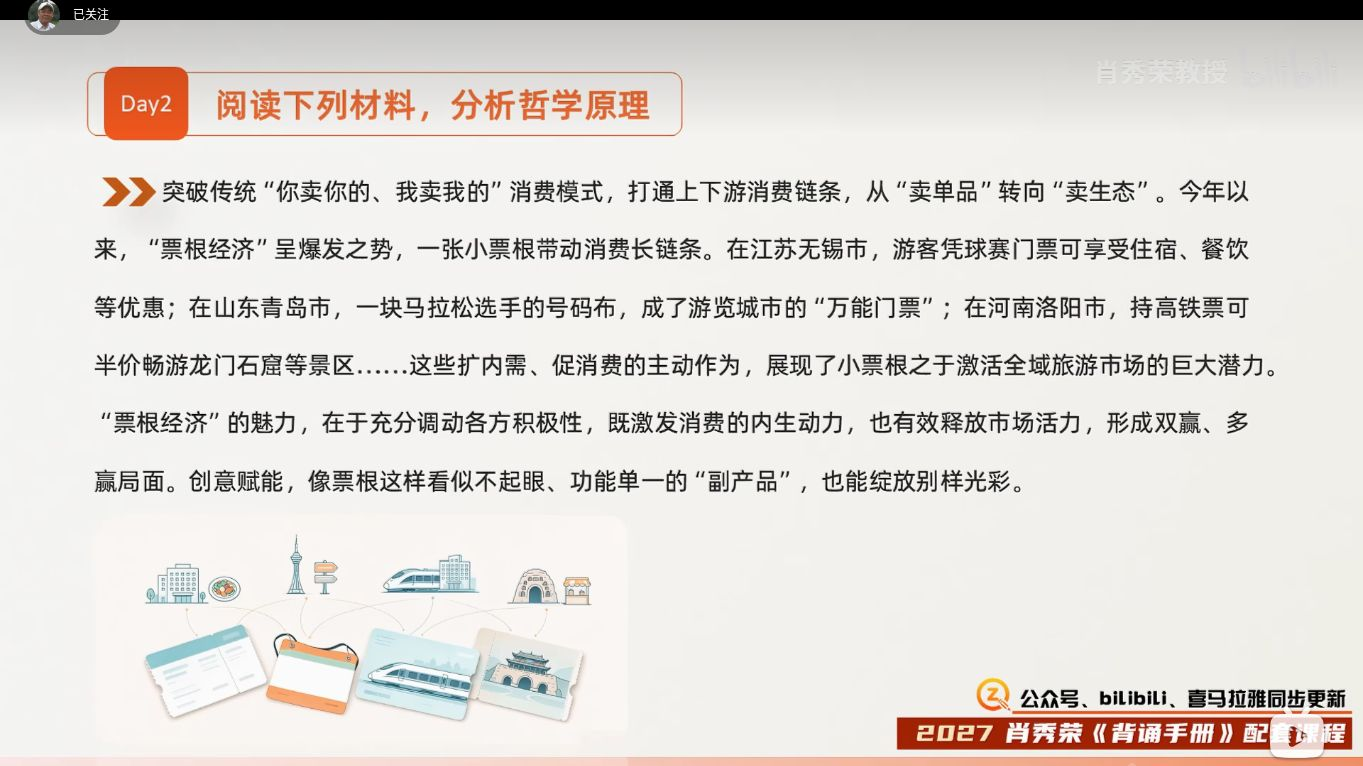
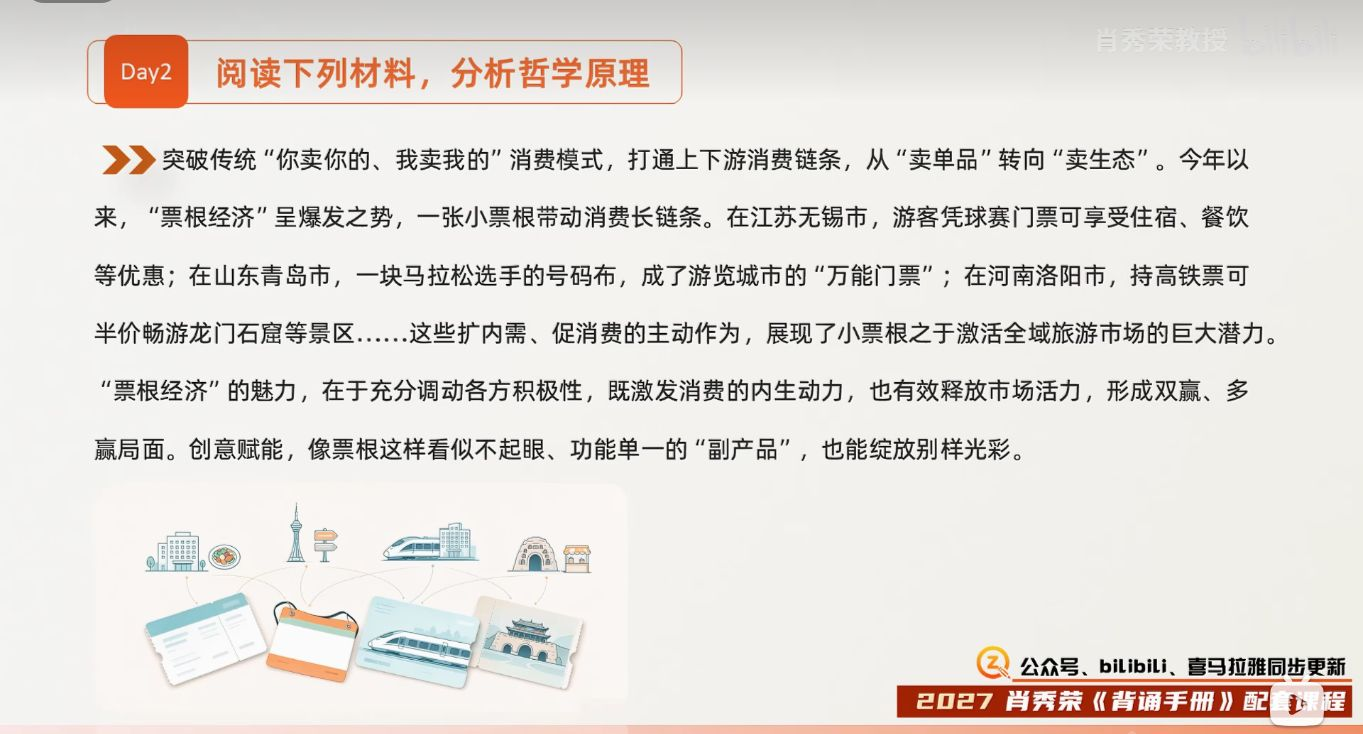
analysis: 补齐Day07—Day09并完成9期18张原图归档（Codex）
Implemented:
- 归档已核对的片尾材料与答案，更新仅含原图的bank页面和来源进度
- 保留explain空目录，记录真实截图尺寸及接力流程

Why:
- 支持连续约30天的带背分析题积累并避免漏期和误认原尺寸

Verified:
- 本批图片已逐页查看，尺寸、SHA256和Markdown图片链接通过本地检查
- 上传blob逐一核对Git SHA，基于最新main快进发布

Generated with Codex

diff --git a/tools/manage_analysis_bank.py b/tools/manage_analysis_bank.py
@@ -42,6 +42,8 @@ def main():
         lines.append(f"- [Day{number:02d} · {day['topic']}](bank/day{number:02d}.md) · [原视频]({day['url']})")
     pending = [str(day['day']) for day in source['videos'] if day['status'] != 'archived']
     lines += ['', f"已归档 {len(completed)}/{len(source['videos'])} 期；" + ('待补 Day' + '、'.join(pending) + '。' if pending else '当前清单全部完成。'), '', '## 目录约定', '', '`bank/dayNN.md` 只展示两张原图：题干材料、参考答案。图片保存在 `bank/images/`；日期与 Day 编号分别记录，停更一天不会错位。`explain/` 暂只保留空目录，理解与解析的写法尚未确定，不自动生成内容。', '', '## 图片口径', '', '选择播放器可用的最高画质并关闭弹幕，暂停在完整静止页后截图；只裁播放器边框、黑边或空白边，不裁正文，不去水印，不重绘或放大冒充原图。当前播放源为 1920×1080，但首批交付是浏览器窗口截图，宽度 1363 像素，不能称为 1080P 原尺寸抽帧。后续若取得更高清原尺寸帧，应核对内容后替换同名图片并更新记录。', '', '## 接力与更新', '', '1. 先阅读仓库 `AGENTS.md` 和本目录 `sources.json`，读取最新 main。', '2. 在官方合集（ID 9292051）检查是否有新一期，按实际 Day 编号及发布时间补入清单；先补旧缺口，禁止凭发布日期推算 Day 编号。', '3. 检查片尾全部换页，保存完整材料页与答案页；如果未来一天出现多页，保留全部页并相应调整页面，不能漏页或强行拼成两张。无分析题时如实记录，不拿讲课截图代替。', '4. 优先原尺寸抽帧；只能浏览器截图时记录真实分辨率。暂停后确认页眉 Day 和内容，避免片尾自动跳到下一期。截图时间记在 `timestamps`。', '5. 运行 `python3 tools/manage_analysis_bank.py` 检查尺寸、文件哈希和图片链接。按仓库署名规则分批发布到 main，并核对远端哈希；只在新增归档、补缺或执行失败时通知用户。', '6. 不修改字幕原件、历史讲稿或未成型的 `explain/`。自动检查配置另记录在 `sources.json` 的 `monitoring` 字段；任务是否已启用以自动化工具返回为准。', '', '[来源、时间点、图片校验与进度](sources.json)', '']
+    if source.get('monitoring', {}).get('status') == 'blocked_by_task_limit':
+        lines += ['## 自动检查状态', '', '尚未启用。创建任务时系统返回 `too_many_active_automations`，现有任务数已达 5/5。拟每天北京时间 19:10—23:10 每小时检查一次，至 2026-11-19；需用户指定腾出哪个旧任务的名额后再创建，不能视为已经在后台执行。', '']
     (BASE / 'README.md').write_text('\n'.join(lines))
     for page in BASE.rglob('*.md'):
         for target in re.findall(r'!?\[[^\]]*\]\(([^)]+)\)', page.read_text()):

diff --git a/src/analysis/README.md b/src/analysis/README.md
@@ -10,8 +10,11 @@
 - [Day04 · 市场需求与传统产业转型](bank/day04.md) · [原视频](https://www.bilibili.com/video/BV1vnWA6fEbb/)
 - [Day05 · 森林价值与因地制宜绿化](bank/day05.md) · [原视频](https://www.bilibili.com/video/BV1EWp26XEmb/)
 - [Day06 · 以藕塑骨与科技创新](bank/day06.md) · [原视频](https://www.bilibili.com/video/BV1rDJy61EM5/)
+- [Day07 · 科幻与社会现实](bank/day07.md) · [原视频](https://www.bilibili.com/video/BV1EhJX6aETJ/)
+- [Day08 · 航天科技服务生产生活](bank/day08.md) · [原视频](https://www.bilibili.com/video/BV1wLJq64EA2/)
+- [Day09 · 厚的读薄、薄的读厚](bank/day09.md) · [原视频](https://www.bilibili.com/video/BV1yunn6JExr/)
 
-已归档 6/9 期；待补 Day7、8、9。
+已归档 9/9 期；当前清单全部完成。
 
 ## 目录约定
 
@@ -31,3 +34,7 @@
 6. 不修改字幕原件、历史讲稿或未成型的 `explain/`。自动检查配置另记录在 `sources.json` 的 `monitoring` 字段；任务是否已启用以自动化工具返回为准。
 
 [来源、时间点、图片校验与进度](sources.json)
+
+## 自动检查状态
+
+尚未启用。创建任务时系统返回 `too_many_active_automations`，现有任务数已达 5/5。拟每天北京时间 19:10—23:10 每小时检查一次，至 2026-11-19；需用户指定腾出哪个旧任务的名额后再创建，不能视为已经在后台执行。

diff --git a/src/analysis/bank/day07.md b/src/analysis/bank/day07.md
@@ -1,0 +1,3 @@
+![Day07 题干材料](images/day07-material.jpg)
+
+![Day07 参考答案](images/day07-answer.jpg)

diff --git a/src/analysis/bank/day08.md b/src/analysis/bank/day08.md
@@ -1,0 +1,3 @@
+![Day08 题干材料](images/day08-material.jpg)
+
+![Day08 参考答案](images/day08-answer.jpg)

diff --git a/src/analysis/bank/day09.md b/src/analysis/bank/day09.md
@@ -1,0 +1,3 @@
+![Day09 题干材料](images/day09-material.jpg)
+
+![Day09 参考答案](images/day09-answer.jpg)
